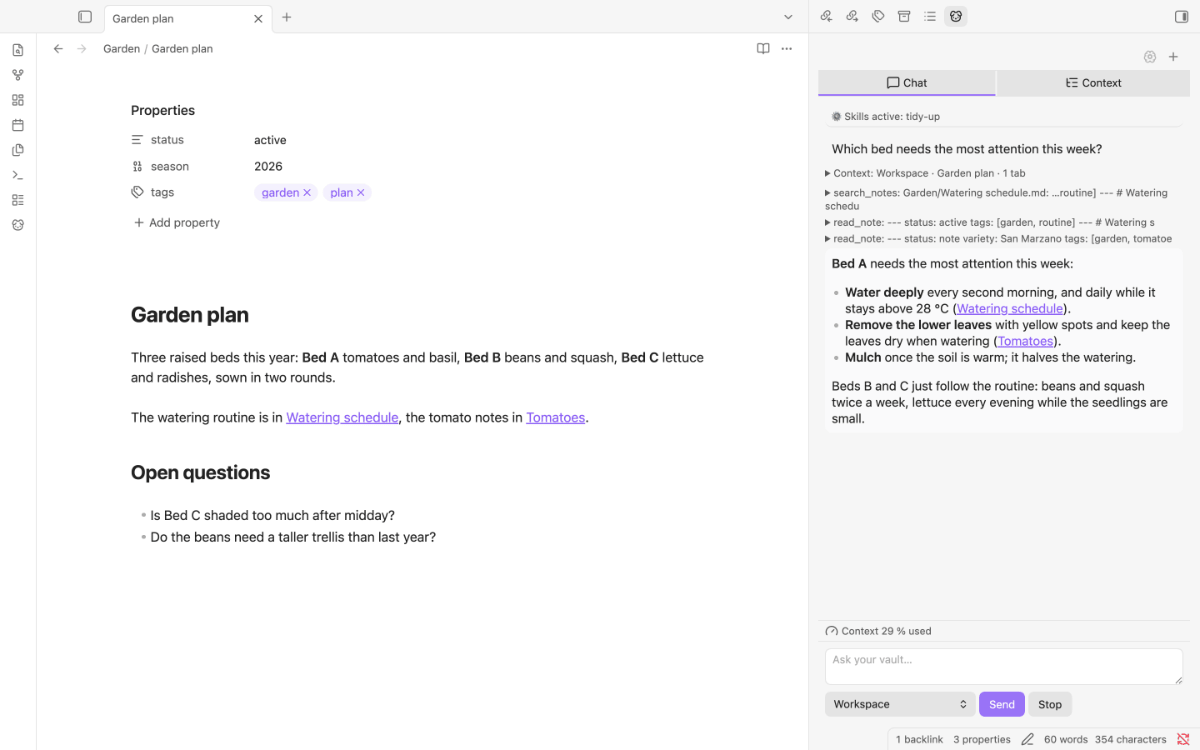
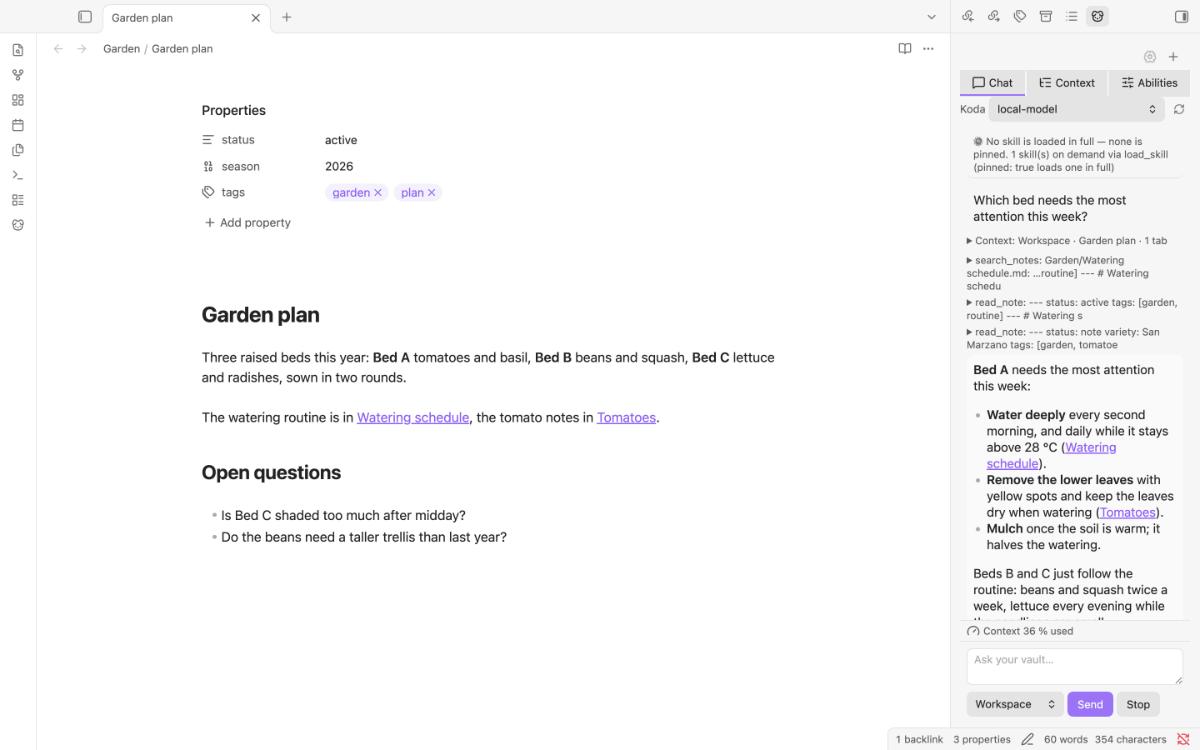
docs(images): hero.png mit der Modellzeile neu aufgenommen

diff --git a/docs/images/README.md b/docs/images/README.md
@@ -35,6 +35,8 @@ The scenery is `docs/images/fixture/` (shared with the GUI smoke; its `README.md
 
 **2026-09-26: all four images captured** (Obsidian 1.14.2, second instance, Koda 0.17.0 + docs commit). Every image was looked at, not just measured.
 
+**2026-10-25 (wave 27): `hero.png` captured again** (Obsidian 1.14.5, second instance, Koda 0.30.0 + model row): the sidebar now shows the model row above the conversation. `context-tab.png`, `confirm-write.png` and `settings.png` do not show it and stay. Needs a fresh profile prepared first (trust dialog, plugin enabled) — `shots.ts` does not do that itself.
+
 Findings from the capture, kept here because they will bite again:
 
 - **`newChat()` does nothing while Koda is busy.** A confirmation dialog left open by the previous scene keeps the run alive, and the next scene showed the old conversation and the dialog. The driver now cancels dialogs by their **Cancel** button (the close ✕ via `click()` left Koda's dialog standing), calls `stopRun()` and waits for idle before every scene.
